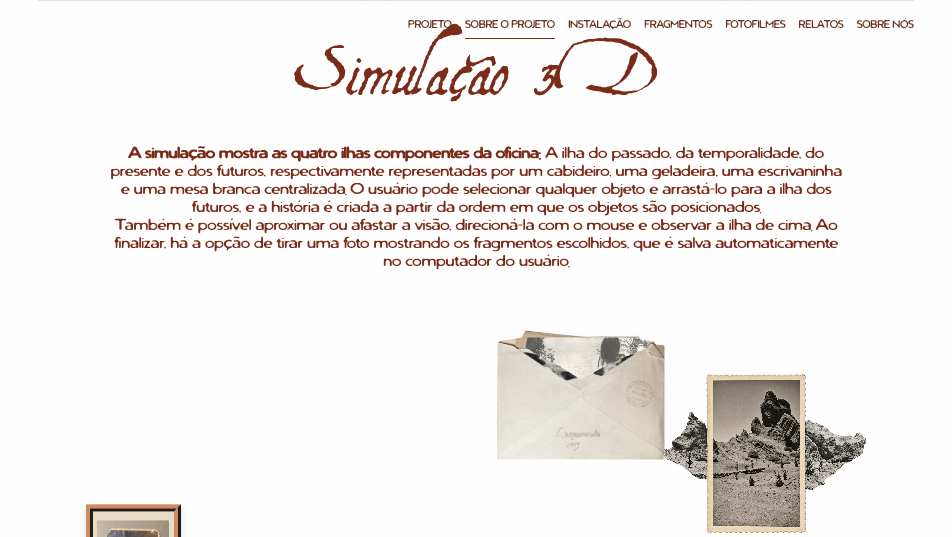
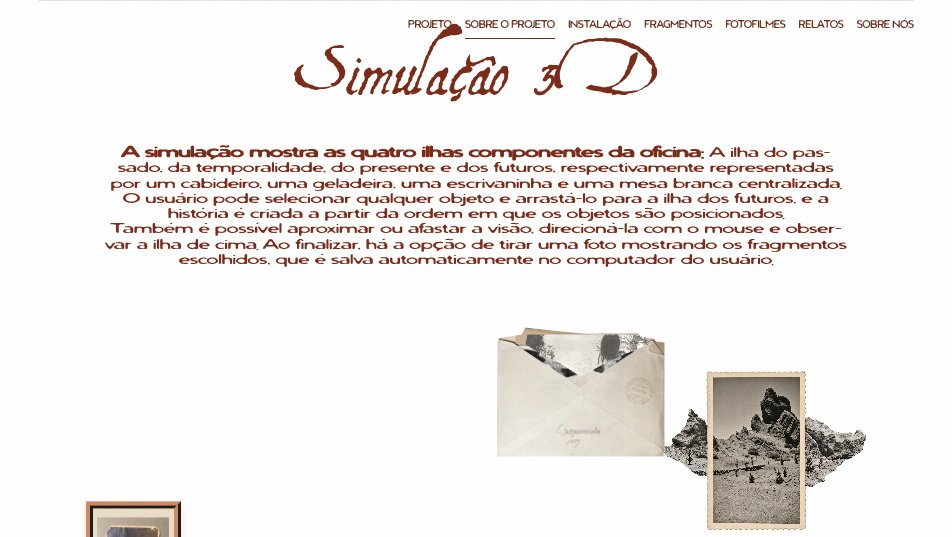
style(simulacao): aproximar formatação do texto à referência

diff --git a/Kimi_Agent_HIPOCAMPO 3D Interactive Site/hipocampo/index.html b/Kimi_Agent_HIPOCAMPO 3D Interactive Site/hipocampo/index.html
@@ -2,7 +2,7 @@
 <html lang="pt-BR">
   <head>
     <meta charset="UTF-8" />
-    <meta name="hipocampo-release" content="simulation-layout-20261115-1" />
+    <meta name="hipocampo-release" content="reference-typesetting-20261115-2" />
     <meta name="viewport" content="width=device-width, initial-scale=1.0" />
     <meta
       name="description"
@@ -21,11 +21,11 @@
     <link rel="stylesheet" href="/assets/page2-motion.css?v=justified-copy-1" />
     <link rel="stylesheet" href="/assets/house-preparation.css?v=house-gpu-2" />
     <link rel="stylesheet" href="/assets/page3-house.css?v=silent-house-1" />
-    <link rel="stylesheet" href="/assets/page4-sobre.css?v=simulation-layout-1" />
+    <link rel="stylesheet" href="/assets/page4-sobre.css?v=reference-typesetting-2" />
     <link rel="stylesheet" href="/assets/page5-vestigios.css?v=simulation-layout-1" />
     <link rel="stylesheet" href="/assets/installation-room.css?v=type-installation-1" />
     <link rel="stylesheet" href="/assets/client-update.css?v=type-installation-1" />
-    <link rel="stylesheet" href="/assets/mobile-layout.css?v=simulation-layout-1" />
+    <link rel="stylesheet" href="/assets/mobile-layout.css?v=reference-typesetting-2" />
     <link rel="stylesheet" href="/assets/team-finale.css?v=about-sentence-case-1" />
     <link rel="stylesheet" href="/assets/stories-letter.css?v=physical-envelope-1" />
     <!-- Route only the recovered installation chunk to its editable 3D entry.
@@ -45,7 +45,7 @@
     <script type="module" src="/assets/page2-motion.js?v=editorial-copy-1"></script>
     <script type="module" src="/assets/memory-map.js?v=touch-immersion-1"></script>
     <script type="module" src="/assets/page3-house.js?v=phone-gestures-1"></script>
-    <script type="module" src="/assets/page4-sobre.js?v=simulation-layout-1"></script>
+    <script type="module" src="/assets/page4-sobre.js?v=reference-typesetting-2"></script>
     <script type="module" src="/assets/page5-vestigios.js?v=reference-copy-1"></script>
     <script type="module" src="/assets/editorial-motion.js?v=physical-envelope-1"></script>
     <script type="module" src="/assets/photo-trail.js?v=phone-gestures-1"></script>

diff --git a/Kimi_Agent_HIPOCAMPO 3D Interactive Site/hipocampo/public/assets/page4-sobre.js b/Kimi_Agent_HIPOCAMPO 3D Interactive Site/hipocampo/public/assets/page4-sobre.js
@@ -15,7 +15,7 @@ function buildSection() {
   s.innerHTML = `
     <h2 class="page4-title">Simulação 3D</h2>
     <div class="page4-text">
-      <p><strong>A simulação mostra as quatro ilhas componentes da oficina:</strong> A ilha do passado, da temporalidade, do presente e dos futuros, respectivamente representadas por um cabideiro, uma geladeira, uma escrivaninha e uma mesa branca centralizada. O usuário pode selecionar qualquer objeto e arrastá-lo para a ilha dos futuros, e a história é criada a partir da ordem em que os objetos são posicionados.<br />Também é possível aproximar ou afastar a visão, direcioná-la com o mouse e observar a ilha de cima. Ao finalizar, há a opção de tirar uma foto mostrando os fragmentos escolhidos, que é salva automaticamente no computador do usuário.</p>
+      <p><strong>A simulação mostra as quatro ilhas componentes da oficina:</strong> A ilha do pas&shy;sado, da temporalidade, do presente e dos futuros, respectivamente representadas por um cabideiro, uma geladeira, uma escrivaninha e uma mesa branca centralizada. O usuário pode selecionar qualquer objeto e arrastá-lo para a ilha dos futuros, e a história é criada a partir da ordem em que os objetos são posicionados.<br />Também é possível aproximar ou afastar a visão, direcioná-la com o mouse e obser&shy;var a ilha de cima. Ao finalizar, há a opção de tirar uma foto mostrando os fragmentos escolhidos, que é salva automaticamente no computador do usuário.</p>
     </div>
     <div class="page4-photos">
       ${PHOTOS.map(([n, alt, src]) => `

diff --git a/Kimi_Agent_HIPOCAMPO 3D Interactive Site/hipocampo/public/assets/mobile-layout.css b/Kimi_Agent_HIPOCAMPO 3D Interactive Site/hipocampo/public/assets/mobile-layout.css
@@ -56,8 +56,9 @@
 
   #sobre.hipocampo-page4 { min-height: 0; padding: 6rem 1.25rem 3rem; }
   .page4-title { font-size: clamp(3rem, 13vw, 5.7rem); line-height: 1.35; padding: .3em .12em; }
-  .page4-text { width: 100%; transform: none; max-width: none; margin-top: 1.5rem; font-size: 1.125rem; line-height: 1.6; letter-spacing: 0; text-align: justify; text-align-last: left; }
+  .page4-text { width: 100%; transform: none; max-width: none; -webkit-hyphens: none; hyphens: none; margin-top: 1.5rem; font-size: 1.125rem; line-height: 1.6; letter-spacing: 0; text-align: justify; text-align-last: left; }
   .page4-text p { margin-bottom: 1.35em; }
+  .page4-text strong { font-size: inherit; line-height: inherit; }
   .page4-photos { height: 85vw; max-height: 34rem; margin-top: 1rem; }
   .page4-photo--envelope { left: 0; right: auto; top: 0; width: 50vw; }
   .page4-photo--montanha { right: -1vw; top: 24vw; width: 49vw; }

diff --git a/Kimi_Agent_HIPOCAMPO 3D Interactive Site/hipocampo/public/assets/page4-sobre.css b/Kimi_Agent_HIPOCAMPO 3D Interactive Site/hipocampo/public/assets/page4-sobre.css
@@ -22,20 +22,22 @@
 }
 .page4-title small { font-size: .5em; margin-right: .35em; }
 .page4-text {
-  width: 65vw;
-  max-width: 65vw;
-  transform: scaleX(1.2);
+  width: 46vw;
+  max-width: 46vw;
+  transform: scaleX(1.7);
   transform-origin: center;
   margin: 5.8vw auto 0;
   font-family: "SquidBoy", sans-serif;
-  font-size: clamp(1rem, 1.8vw, 1.6rem);
-  line-height: 1.05;
+  font-size: 1.6vw;
+  line-height: 1;
+  -webkit-hyphens: manual;
+  hyphens: manual;
   text-align: center;
   text-align-last: center;
   letter-spacing: .01em;
 }
 .page4-text p { margin: 0; }
-.page4-text strong { font-weight: 700; }
+.page4-text strong { font-size: 1.125em; line-height: .9; font-weight: 700; }
 .page4-photos { position: relative; height: clamp(15rem, 24vw, 27rem); margin-top: 3vw; }
 .page4-photo {
   position: absolute;

diff --git a/Kimi_Agent_HIPOCAMPO 3D Interactive Site/hipocampo/design-qa.md b/Kimi_Agent_HIPOCAMPO 3D Interactive Site/hipocampo/design-qa.md
@@ -759,3 +759,9 @@ final result: passed
 - Validação: build estático, diff, sintaxe JS e Chromium em 952×537, 1440×900 e 390×844 aprovados; centro do retrato coincide com a divisa, original correto sem corte, número removido e título preservado. Interação do envelope testada por teclado e console sem erros.
 - Limite: navegador móvel validado por viewport no Chromium; Safari em aparelho físico não disponível.
 - final result: passed
+
+### 2026-11-15 — formatação compacta do texto da referência
+- Removido o limite fixo de tamanho do texto desktop que alterava a proporção em monitores maiores. Largura e fonte passam a acompanhar o viewport; escala horizontal aproxima o desenho tipográfico da referência.
+- Texto em oito linhas compactas no desktop, primeira frase maior em negrito e divisões opcionais de passado/observar como no modelo. Mantido conteúdo completo. Mobile preserva fonte legível, fluxo natural e sem hifenização.
+- Comparação visual de 952×537 e 1440×900; captura mobile 390×844 preservada. Build/diff aprovados e navegador confirmou a divisão do retrato entre as seções. Evidência atualizada `docs/simulation-layout-desktop.png`.
+- final result: passed
